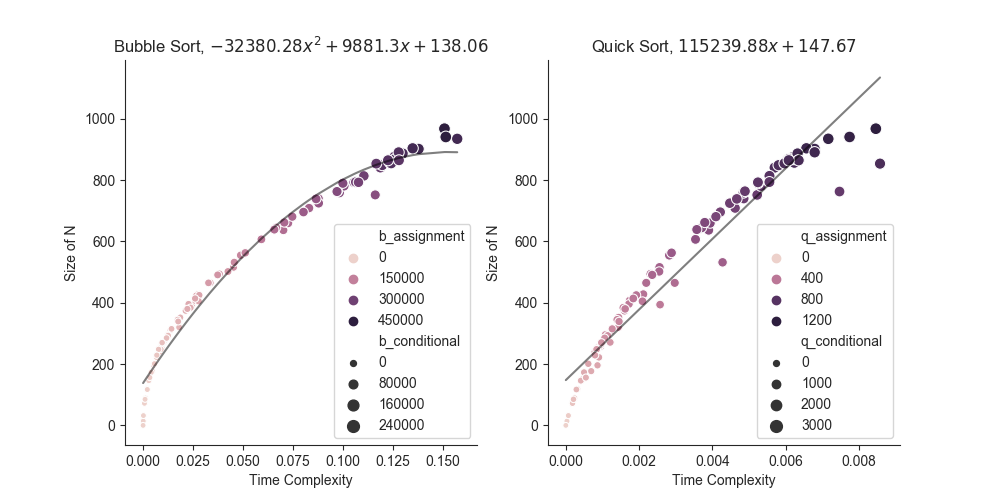
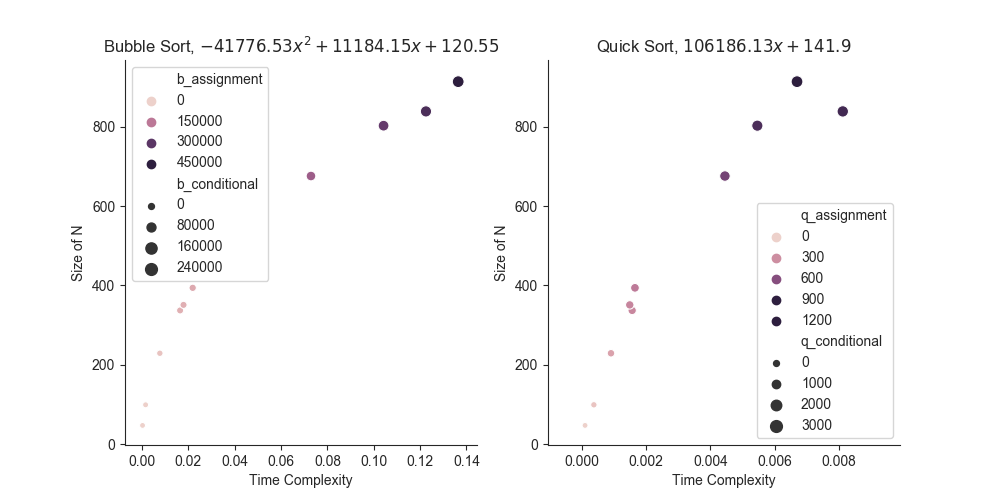
added argparse to main

diff --git a/sort/run.py b/sort/run.py
@@ -67,8 +67,8 @@ def run_graphing(total,max,element):
     ax1 = plt.subplot(gs[:,1],sharey=ax0)
     # kind of sloppy line of best fit
     # should get this in terms of N
-    ax0.plot(np.unique(pd_lists['bubble']), np.poly1d(np.polyfit(pd_lists['bubble'], pd_lists['n'], 2))(np.unique(pd_lists['bubble'])),c='black',alpha=.5)
-    ax1.plot(np.unique(pd_lists['quick']), np.poly1d(np.polyfit(pd_lists['quick'], pd_lists['n'], 1))(np.unique(pd_lists['quick'])),c='black',alpha=.5)
+    # ax0.plot(np.unique(pd_lists['bubble']), np.poly1d(np.polyfit(pd_lists['bubble'], pd_lists['n'], 2))(np.unique(pd_lists['bubble'])),c='black',alpha=.5)
+    # ax1.plot(np.unique(pd_lists['quick']), np.poly1d(np.polyfit(pd_lists['quick'], pd_lists['n'], 1))(np.unique(pd_lists['quick'])),c='black',alpha=.5)
     # what is the relationship between n and conditional/assignment counts?
     # try to figure out the relation between conditional/assignments to the intercepts
     # add theoretical O(n2) and O(nlog(n))

diff --git a/sort/__main__.py b/sort/__main__.py
@@ -1,10 +1,18 @@
 # this file is only called when the package is called from the command
-# line
+# line with python -m sort <other flags>
 import argparse
 from .run import run_graphing
 
+def get_args():
+	parser = argparse.ArgumentParser(description="Description")
+	parser.add_argument("-t","--total",type=int,default="100",help='total number of lists to have')
+	parser.add_argument("-a","--max",type=int,default="10",help='max value to have in a list')
+	parser.add_argument("-e","--element",type=int,default="1000",help='the range of numbers from which to draw the random number of elements per list')
+	return parser.parse_args()
+
 def main():
-	quick_lists,bubble_lists = run_graphing(100,10,1000)
+	args = get_args()
+	quick_lists,bubble_lists = run_graphing(args.total,args.max,args.element)
 
 if __name__ == "__main__":
 	main()
